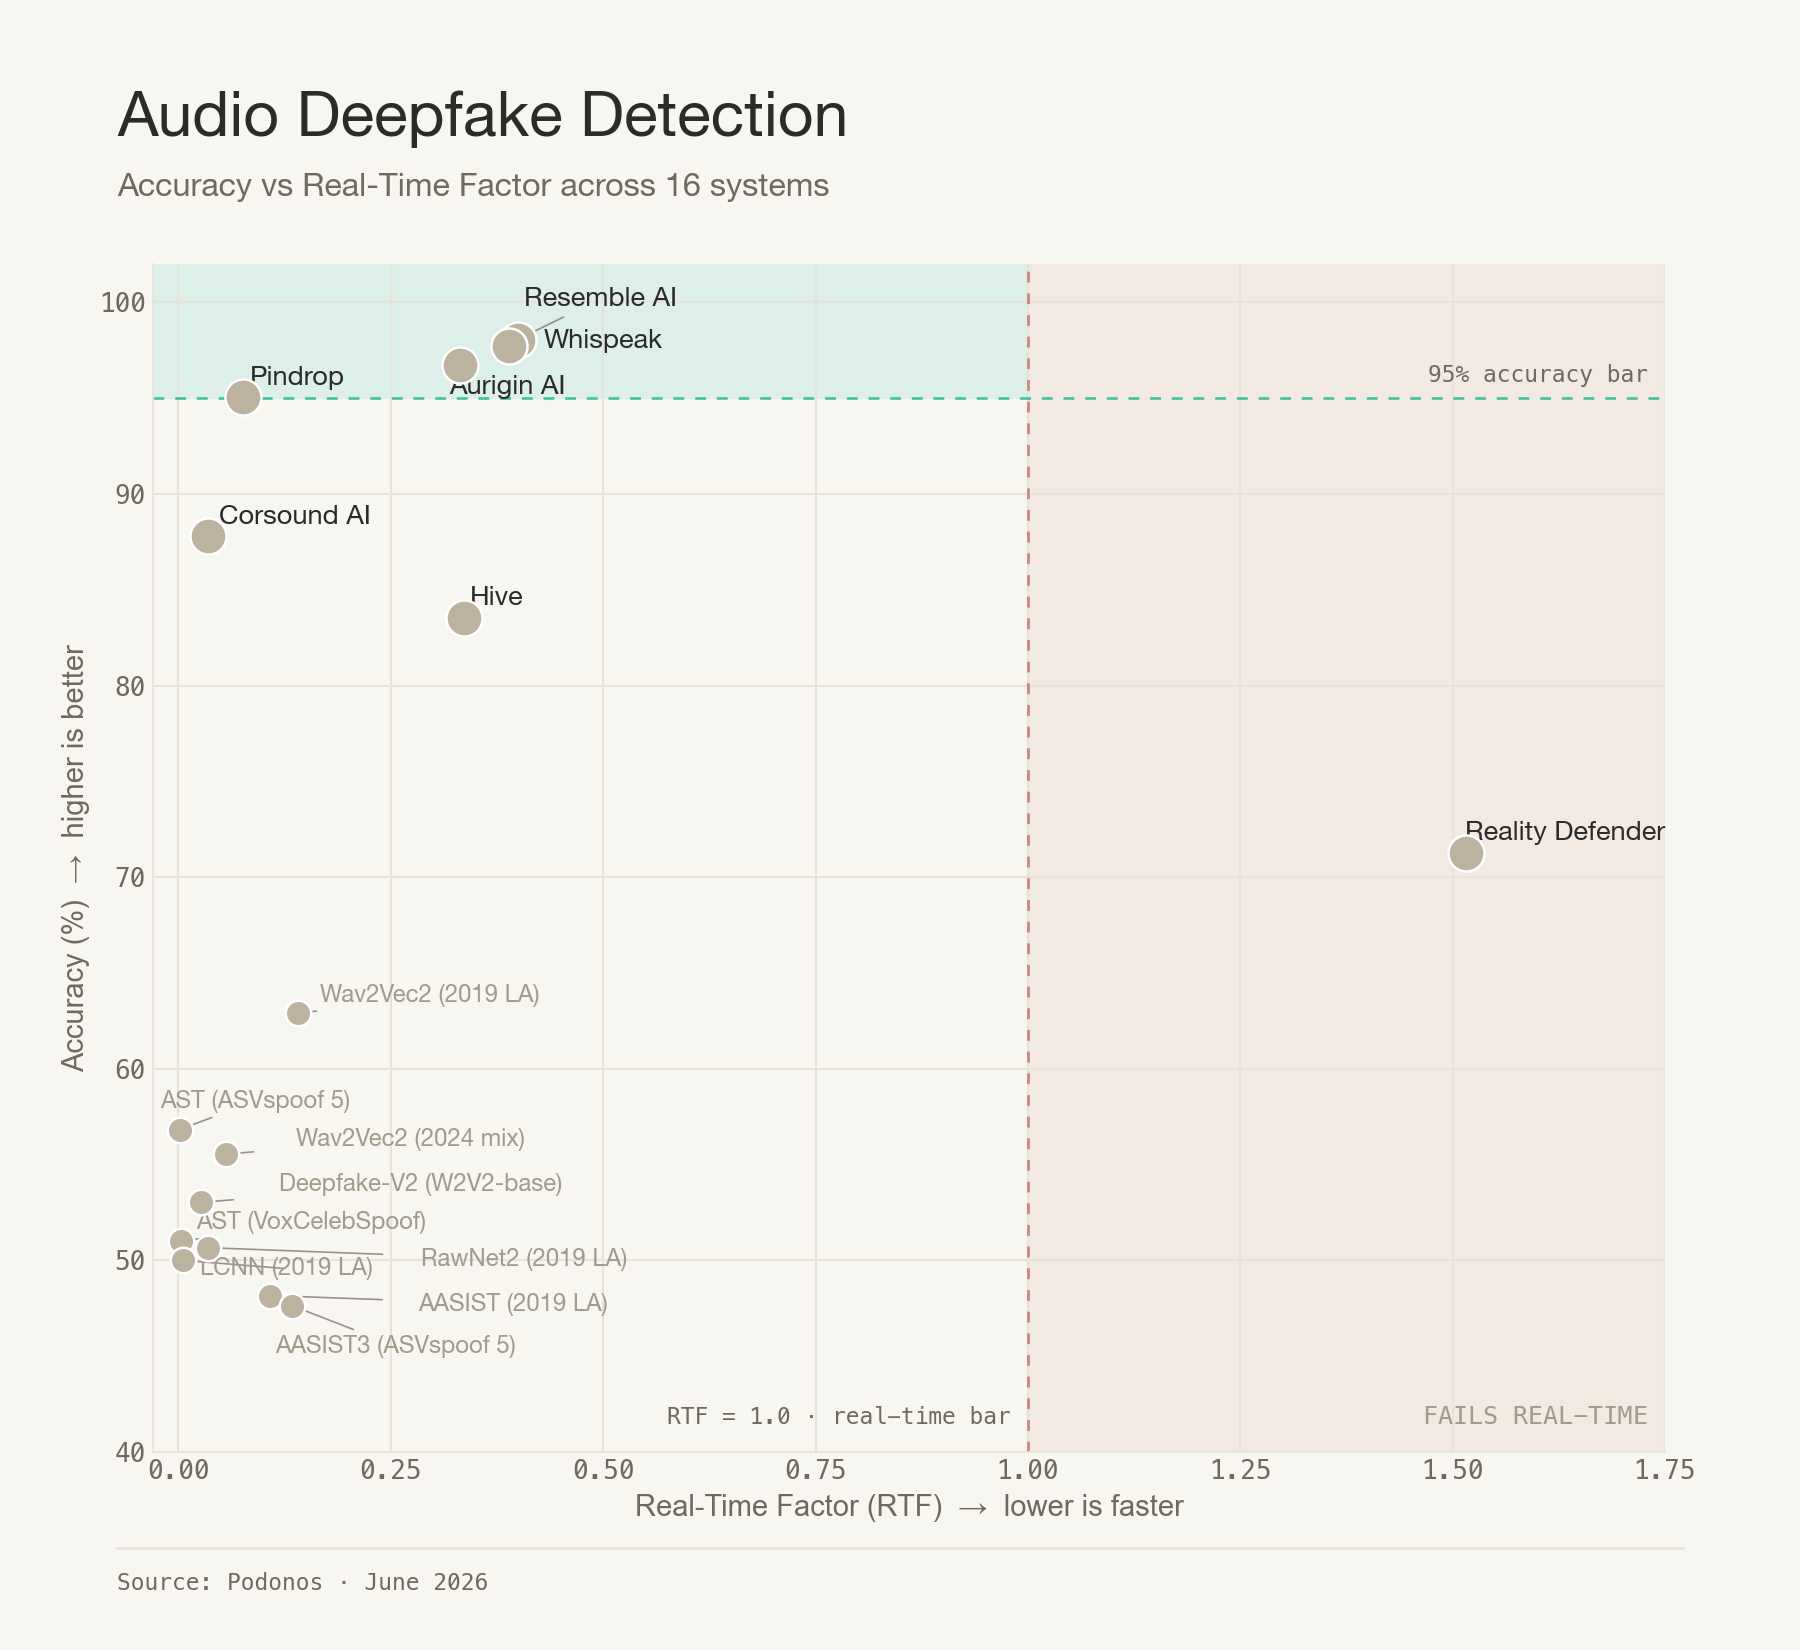
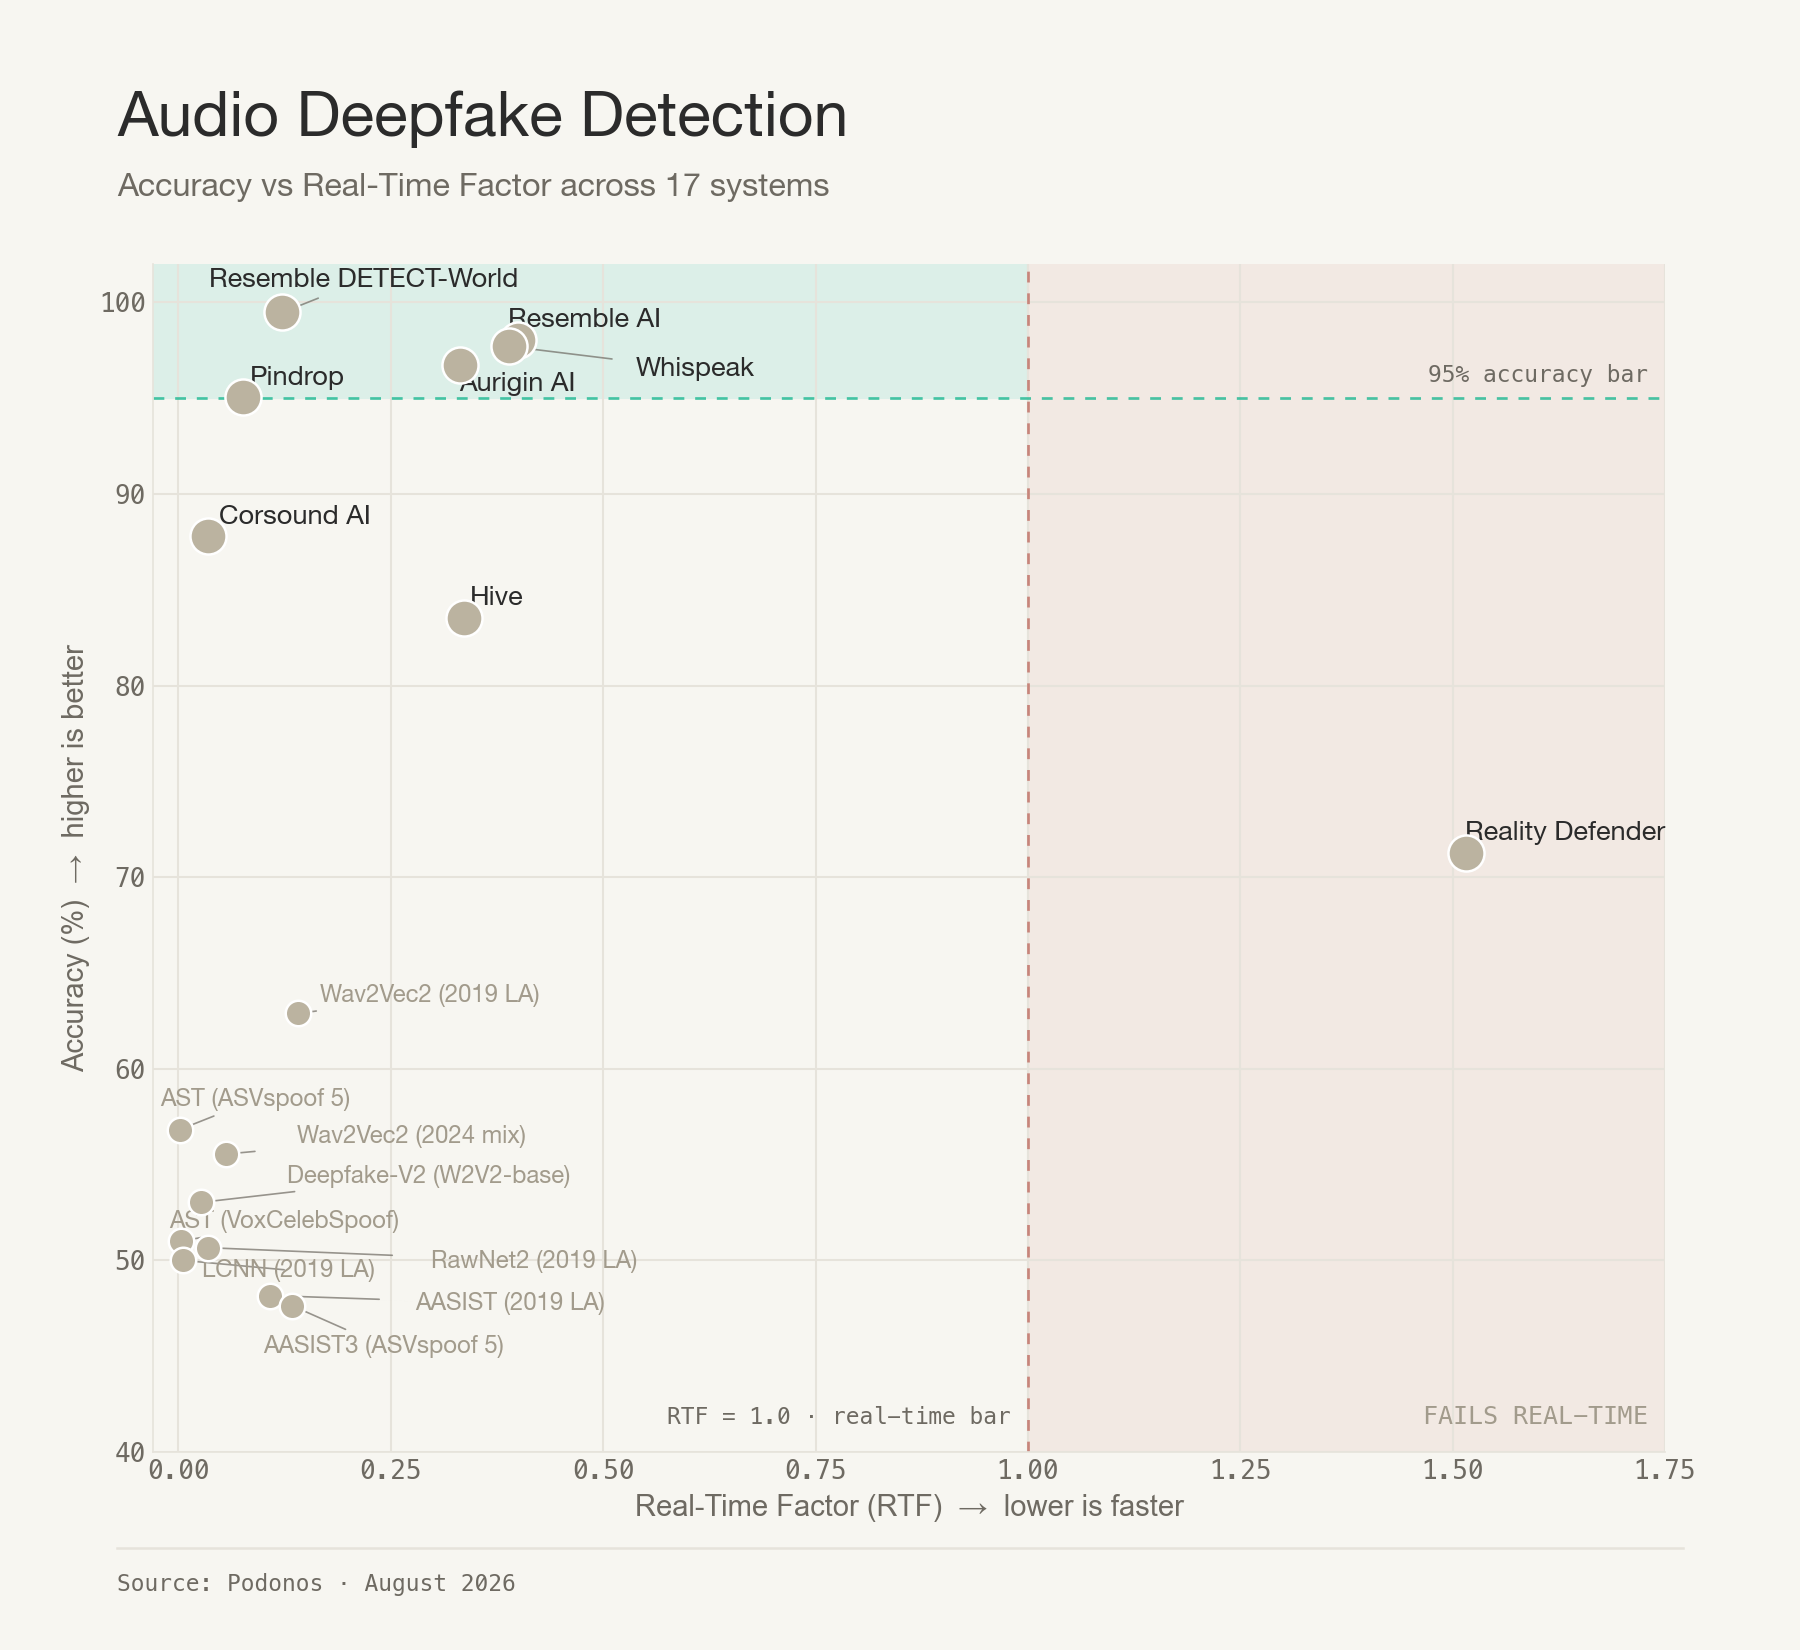
Add Resemble DETECT-World to leaderboard
New #1 at 99.47% accuracy (F1 0.995, FPR 0.7%, FNR 0.4%, 399 ms, RTF 0.12) —
the first system on this benchmark with both error rates under 1%. Scored on
the studio track, 4524 files, no rejections.

Also syncs ALL_MODELS in the scoring script with the published leaderboard: it
had drifted to 8 models and was missing Pindrop, Whispeak, Corsound and the
five modern open-source baselines.

Changed region(s): [[0.0933, 0.6491, 0.3422, 0.8345], [0.1244, 0.1545, 0.4044, 0.2473]]

diff --git a/scripts/compute_metrics.py b/scripts/compute_metrics.py
@@ -11,8 +11,14 @@ LABELS_CSV = os.path.join(os.path.dirname(__file__), "..", "dataset", "labels_sp
 RESULTS_DIR = os.path.join(os.path.dirname(__file__), "..", "results")
 
 ALL_MODELS = [
+    # Open-source baselines (legacy, ASVspoof 2019 LA era)
     "aasist", "rawnet2", "lcnn", "wav2vec2",
-    "hive", "resemble", "reality_defender", "aurigin",
+    # Open-source baselines (modern, 2024+ training)
+    "aasist_asvspoof5", "ast_asvspoof5", "ast_voxcelebspoof",
+    "wav2vec2_garystafford", "melodymachine_v2",
+    # Commercial APIs
+    "resemble", "resemble_detect_world", "hive", "reality_defender", "aurigin",
+    "pindrop", "whispeak", "corsound",
 ]
 
 

diff --git a/README.md b/README.md
@@ -12,26 +12,27 @@ A neutral, public benchmark for evaluating audio deepfake detection systems on a
 
 ![Leaderboard — Accuracy](images/leaderboard_accuracy.png)
 
-**16 systems** evaluated: 7 commercial APIs (**bold**) and 9 open-source baselines, sorted by accuracy. Company and model names link to their source.
+**17 systems** evaluated: 8 commercial APIs (**bold**) and 9 open-source baselines, sorted by accuracy. Company and model names link to their source.
 
 | # | System | N | Rej% | Acc% | F1 | FPR% | FNR% | Lat(ms) | RTF |
 |---|--------|---|------|------|-----|------|------|---------|-----|
-| 1 | **[Resemble AI](https://www.resemble.ai)** | 4524 | 0.0% | **98.05%** | 0.981 | 2.5% | 1.4% | 1,164 | 0.40 |
-| 2 | **[Whispeak](https://whispeak.io)** | 4524 | 0.0% | 97.70% | 0.977 | 2.9% | 1.7% | 1,052 | 0.39 |
-| 3 | **[Aurigin AI](https://aurigin.ai)** | 4524 | 0.0% | 96.75% | 0.967 | 1.5% | 5.0% | 980 | 0.33 |
-| 4 | **[Pindrop](https://www.pindrop.com)** | 4524 | 0.0% | 95.05% | 0.951 | 6.2% | 3.7% | 282 | 0.076 |
-| 5 | **[Corsound AI](https://www.corsound.ai)** | 3875 | 14.3% | 87.79% | 0.865 | 1.0% | 23.1% | 180 | 0.035 |
-| 6 | **[Hive](https://thehive.ai)** | 4524 | 0.0% | 83.53% | 0.808 | 2.4% | 30.5% | 881 | 0.34 |
-| 7 | **[Reality Defender](https://www.realitydefender.com)** | 3745 | 17.2% | 71.27% | 0.770 | 53.7% | 3.6% | 5,718 | 1.52 |
-| 8 | [Wav2Vec2 (2019 LA)](https://huggingface.co/Gustking/wav2vec2-large-xlsr-deepfake-audio-classification) | 4524 | 0.0% | 62.89% | 0.514 | 13.4% | 60.8% | 622 | 0.14 |
-| 9 | [AST (ASVspoof 5)](https://huggingface.co/MattyB95/AST-ASVspoof5-Synthetic-Voice-Detection) | 4524 | 0.0% | 56.83% | 0.657 | 69.0% | 17.4% | 5 | 0.0017 |
-| 10 | [Wav2Vec2 (2024 mix)](https://huggingface.co/garystafford/wav2vec2-deepfake-voice-detector) | 4524 | 0.0% | 55.55% | 0.499 | 33.1% | 55.8% | 219 | 0.056 |
-| 11 | [Deepfake-V2 (W2V2-base)](https://huggingface.co/MelodyMachine/Deepfake-audio-detection-V2) | 4524 | 0.0% | 53.03% | 0.162 | 3.1% | 90.9% | 94 | 0.027 |
-| 12 | [AST (VoxCelebSpoof)](https://huggingface.co/MattyB95/AST-VoxCelebSpoof-Synthetic-Voice-Detection) | 4524 | 0.0% | 50.99% | 0.048 | 0.5% | 97.5% | 8 | 0.0030 |
-| 13 | [RawNet2 (2019 LA)](https://huggingface.co/MattyB95/pre_trained_DF_RawNet2) | 4524 | 0.0% | 50.66% | 0.430 | 35.9% | 62.7% | 94 | 0.035 |
-| 14 | [LCNN-LFCC (2019 LA)](https://huggingface.co/MattyB95/pre_trained_DF_LFCC-LCNN) | 4524 | 0.0% | 50.00% | 0.667 | 100.0% | 0.0% | 23 | 0.0056 |
-| 15 | [AASIST (2019 LA)](https://github.com/clovaai/aasist) | 4524 | 0.0% | 48.17% | 0.486 | 52.6% | 51.1% | 322 | 0.11 |
-| 16 | [AASIST3 (ASVspoof 5)](https://huggingface.co/lab260/AASIST3) | 4524 | 0.0% | 47.63% | 0.029 | 6.3% | 98.4% | 363 | 0.13 |
+| 1 | **[Resemble DETECT-World](https://www.resemble.ai)** | 4524 | 0.0% | **99.47%** | 0.995 | 0.7% | 0.4% | 399 | 0.12 |
+| 2 | **[Resemble AI](https://www.resemble.ai)** | 4524 | 0.0% | 98.05% | 0.981 | 2.5% | 1.4% | 1,164 | 0.40 |
+| 3 | **[Whispeak](https://whispeak.io)** | 4524 | 0.0% | 97.70% | 0.977 | 2.9% | 1.7% | 1,052 | 0.39 |
+| 4 | **[Aurigin AI](https://aurigin.ai)** | 4524 | 0.0% | 96.75% | 0.967 | 1.5% | 5.0% | 980 | 0.33 |
+| 5 | **[Pindrop](https://www.pindrop.com)** | 4524 | 0.0% | 95.05% | 0.951 | 6.2% | 3.7% | 282 | 0.076 |
+| 6 | **[Corsound AI](https://www.corsound.ai)** | 3875 | 14.3% | 87.79% | 0.865 | 1.0% | 23.1% | 180 | 0.035 |
+| 7 | **[Hive](https://thehive.ai)** | 4524 | 0.0% | 83.53% | 0.808 | 2.4% | 30.5% | 881 | 0.34 |
+| 8 | **[Reality Defender](https://www.realitydefender.com)** | 3745 | 17.2% | 71.27% | 0.770 | 53.7% | 3.6% | 5,718 | 1.52 |
+| 9 | [Wav2Vec2 (2019 LA)](https://huggingface.co/Gustking/wav2vec2-large-xlsr-deepfake-audio-classification) | 4524 | 0.0% | 62.89% | 0.514 | 13.4% | 60.8% | 622 | 0.14 |
+| 10 | [AST (ASVspoof 5)](https://huggingface.co/MattyB95/AST-ASVspoof5-Synthetic-Voice-Detection) | 4524 | 0.0% | 56.83% | 0.657 | 69.0% | 17.4% | 5 | 0.0017 |
+| 11 | [Wav2Vec2 (2024 mix)](https://huggingface.co/garystafford/wav2vec2-deepfake-voice-detector) | 4524 | 0.0% | 55.55% | 0.499 | 33.1% | 55.8% | 219 | 0.056 |
+| 12 | [Deepfake-V2 (W2V2-base)](https://huggingface.co/MelodyMachine/Deepfake-audio-detection-V2) | 4524 | 0.0% | 53.03% | 0.162 | 3.1% | 90.9% | 94 | 0.027 |
+| 13 | [AST (VoxCelebSpoof)](https://huggingface.co/MattyB95/AST-VoxCelebSpoof-Synthetic-Voice-Detection) | 4524 | 0.0% | 50.99% | 0.048 | 0.5% | 97.5% | 8 | 0.0030 |
+| 14 | [RawNet2 (2019 LA)](https://huggingface.co/MattyB95/pre_trained_DF_RawNet2) | 4524 | 0.0% | 50.66% | 0.430 | 35.9% | 62.7% | 94 | 0.035 |
+| 15 | [LCNN-LFCC (2019 LA)](https://huggingface.co/MattyB95/pre_trained_DF_LFCC-LCNN) | 4524 | 0.0% | 50.00% | 0.667 | 100.0% | 0.0% | 23 | 0.0056 |
+| 16 | [AASIST (2019 LA)](https://github.com/clovaai/aasist) | 4524 | 0.0% | 48.17% | 0.486 | 52.6% | 51.1% | 322 | 0.11 |
+| 17 | [AASIST3 (ASVspoof 5)](https://huggingface.co/lab260/AASIST3) | 4524 | 0.0% | 47.63% | 0.029 | 6.3% | 98.4% | 363 | 0.13 |
 
 **Legend**:
 - **N** — number of evaluated audio files
@@ -44,10 +45,11 @@ A neutral, public benchmark for evaluating audio deepfake detection systems on a
 
 ### Observations
 
-**Top tier — four commercial APIs clear 95 %:**
+**Top tier — five commercial APIs clear 95 %:**
 
-Four production APIs separate themselves from the rest, all above 95 % accuracy with F1 ≥ 0.95. The choice between them comes down to which error you can least afford and how fast you need an answer.
+Five production APIs separate themselves from the rest, all above 95 % accuracy with F1 ≥ 0.95. The choice between them comes down to which error you can least afford and how fast you need an answer.
 
+- **Resemble DETECT-World** — **99.47 % accuracy**, F1 **0.995**, with **both** error rates under 1 % (FPR 0.7 %, FNR 0.4 %). The first system on this benchmark that does not force an error trade-off: it misses ~1 in 250 deepfakes *and* false-flags ~1 in 150 real clips, roughly a 3–4× reduction on both axes versus the next-best system. It is also ~3× faster than the previous Resemble model (399 ms/file, RTF 0.12) and rejects nothing. Accuracy stays within 99.2–99.7 % on every one of the six container formats, so there is no format-specific weak spot. On this dataset it is the default pick regardless of which error you care about.
 - **Resemble AI** — **98.05 % accuracy**, F1 **0.981**, **FNR 1.4 %**. Best at *catching fakes*: only ~1 in 70 deepfakes slips past it (FPR 2.5 %). Choose Resemble when **missing a deepfake is worse than a false alarm** — fraud / KYC voice verification, content provenance, anywhere letting a synthetic voice through is the high-cost outcome.
 - **Whispeak** — **97.70 % accuracy**, F1 **0.977**, a balanced 2.9 % FPR / 1.7 % FNR. The most symmetric error profile in the top tier — strong on both real and fake audio without leaning either way.
 - **Aurigin AI** — **96.75 % accuracy**, F1 **0.967**, **FPR 1.5 %** (the lowest of any system that also catches fakes). Best at *protecting real audio*: only ~1 in 65 genuine clips is wrongly flagged (FNR 5.0 %). Choose Aurigin when **false alarms on real audio are worse than missed fakes** — content moderation at scale, automated takedowns, journalist verification.
@@ -68,7 +70,7 @@ Four production APIs separate themselves from the rest, all above 95 % accuracy 
 
 **Latency / RTF:**
 - Reality Defender's **RTF > 1.0** means it is slower than real-time — a 5-second clip takes ~7.6 s to process. Not viable for streaming.
-- Every other detector runs faster than real-time (RTF < 1). Among the accurate commercial systems, **Pindrop is the fastest (RTF 0.076)**; Resemble, Whispeak, Aurigin, and Hive land around RTF 0.33–0.40.
+- Every other detector runs faster than real-time (RTF < 1). Among the accurate commercial systems, **Pindrop is the fastest (RTF 0.076)**, with **Resemble DETECT-World** next at RTF 0.12 — and unlike Pindrop it gives up no accuracy to get there. Resemble AI, Whispeak, Aurigin, and Hive land around RTF 0.33–0.40.
 - The open-source models run on local hardware (no network round-trip), so their low RTF reflects pure compute cost — but at this accuracy that speed buys little.
 
 ### Error Profile
@@ -207,6 +209,7 @@ Outputs the per-model breakdown including per-format accuracy and the leaderboar
 
 | Vendor | Product / Model | Docs / Product page |
 |--------|-----------------|---------------------|
+| [**Resemble AI**](https://www.resemble.ai) | DETECT-World | https://docs.resemble.ai/detect |
 | [**Resemble AI**](https://www.resemble.ai) | DETECT-3B Omni | https://docs.resemble.ai/detect |
 | [**Whispeak**](https://whispeak.io) | Voice Biometric Authentication (anti-spoofing) | https://whispeak.io/voice-authentication/ |
 | [**Aurigin AI**](https://aurigin.ai) | Apollo deepfake detection | https://docs.aurigin.ai |
